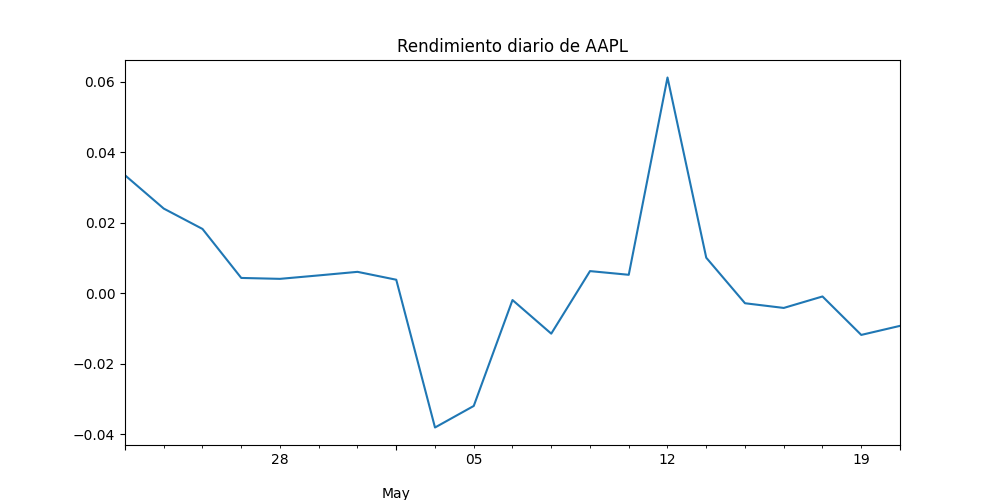
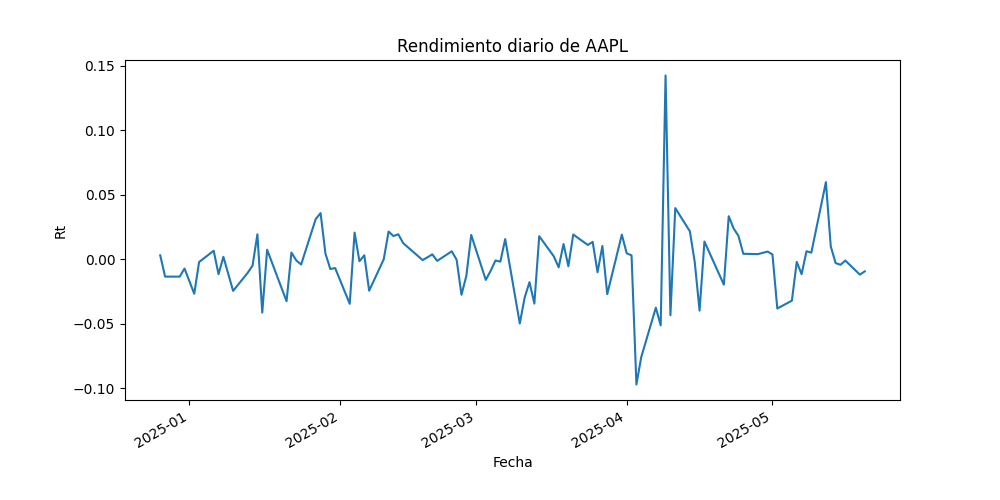
Cambie API de FinnHub a AlphaVantage, probando limites gratuitos

diff --git a/templates/consulta.html b/templates/consulta.html
@@ -1,20 +1,30 @@
+<!-- templates/consulta.html -->
+
 <!DOCTYPE html>
 <html>
 <head>
-    <title>Consulta de Stock</title>
-    <link rel="stylesheet" href="{{ url_for('static', filename='estilos.css') }}">
+  <meta charset="utf-8">
+  <title>Consulta de Stock</title>
+  <link rel="stylesheet" href="{{ url_for('static', filename='estilos.css') }}">
 </head>
 <body>
-    <h2>Consulta Rendimiento de Stocks</h2>
-    <form method="POST">
-        Código de Acción (Ticker):<br>
-        <input type="text" name="ticker" required><br><br>
-        <button type="submit">Consultar</button>
-    </form>
+  <h2>Consulta Rendimiento de Stocks</h2>
 
-    {% if resultado %}
-        <h3>Gráfica de Rendimiento:</h3>
-        <img src="{{ url_for('static', filename=resultado.split('/')[-1]) }}" width="700">
-    {% endif %}
+  <form method="POST">
+    Código de Acción (Ticker):<br>
+    <input type="text" name="ticker" required autofocus><br><br>
+    <button type="submit">Consultar</button>
+  </form>
+
+  {% if error %}
+    <!-- Aquí ves el JSON completo de error -->
+    <pre style="color:red; white-space: pre-wrap;">{{ error }}</pre>
+  {% endif %}
+
+  {% if resultado %}
+    <h3>Gráfica de Rendimiento:</h3>
+    <img src="{{ url_for('static', filename=resultado) }}" width="700"
+         alt="Rendimiento de {{ resultado.split('_')[0] }}">
+  {% endif %}
 </body>
 </html>

diff --git a/app.py b/app.py
@@ -1,25 +1,23 @@
-from flask import Flask, render_template, request, redirect, session
-import requests, time
-import numpy as np
-import pandas as pd
-import matplotlib.pyplot as plt
-import os
+# app.py
 
-# SQLAlchemy ORM (igual que antes)
+from flask import Flask, render_template, request, redirect, session
+import requests, os, numpy as np, pandas as pd, matplotlib.pyplot as plt
 from sqlalchemy import create_engine, Column, Integer, String
 from sqlalchemy.ext.declarative import declarative_base
 from sqlalchemy.orm import sessionmaker
 
+# ——— Configuración básica ———
 app = Flask(__name__)
 app.secret_key = 'tu_clave_secreta'
 
-# ------ Configuración Finnhub ------
-FINNHUB_API_KEY = 'd0mg4epr01qqqs599dc0d0mg4epr01qqqs599dcg'
-CANDLE_URL = 'https://finnhub.io/api/v1/stock/candle'
+# ——— Alpha Vantage ———
+ALPHA_API_KEY = 'TU_API_KEY'   # <<— reemplaza con tu key de Alpha Vantage
+AV_URL        = 'https://www.alphavantage.co/query'
+# Rate limit free: 5 llamadas/minuto, 500 llamadas/día
 
-# ------ ORM & BD ------
-engine = create_engine('sqlite:///database.db', echo=False)
-Base = declarative_base()
+# ——— ORM y Base de datos ———
+engine       = create_engine('sqlite:///database.db', echo=False)
+Base         = declarative_base()
 SessionLocal = sessionmaker(bind=engine)
 
 class User(Base):
@@ -29,16 +27,57 @@ class User(Base):
     password = Column(String, nullable=False)
 
 Base.metadata.create_all(engine)
-
 with SessionLocal() as db:
     if db.query(User).count() == 0:
         db.add(User(email='user@test.com', password='password123'))
         db.commit()
-        print("Usuario de prueba creado")
+        print("Usuario de prueba creado: user@test.com / password123")
 
-# ------ Rutas ------
+# ——— Función para descargar y graficar ———
+def fetch_and_plot_av(ticker):
+    # Usa el endpoint diario gratuito
+    params = {
+        'function':   'TIME_SERIES_DAILY',    # o 'TIME_SERIES_DAILY_ADJUSTED'
+        'symbol':     ticker,
+        'outputsize': 'compact',              # últimos ~100 días
+        'apikey':     ALPHA_API_KEY
+    }
+    resp = requests.get(AV_URL, params=params)
+    data = resp.json()
+
+    # Manejo de error
+    if 'Time Series (Daily)' not in data:
+        error_msg = data.get('Note') or data.get('Error Message') or data
+        raise ValueError(f"AlphaVantage error: {error_msg}")
+
+    # Construye DataFrame
+    ts = data['Time Series (Daily)']
+    df = pd.DataFrame.from_dict(ts, orient='index', dtype=float)
+    df.index = pd.to_datetime(df.index)
+    df.sort_index(inplace=True)
+
+    # Rendimiento diario: ln(Close_t / Close_{t-1})
+    # Si usas DAILY_ADJUSTED, reemplaza '4. close' por '5. adjusted close'
+    df['Rendimiento'] = np.log(df['4. close'] / df['4. close'].shift(1))
+    df.dropna(inplace=True)
+
+    # Gráfica
+    plt.figure(figsize=(10,5))
+    df['Rendimiento'].plot(title=f'Rendimiento diario de {ticker}')
+    plt.xlabel('Fecha')
+    plt.ylabel('Rt')
+
+    os.makedirs('static', exist_ok=True)
+    img_name = f'{ticker}_rend.png'
+    plt.savefig(os.path.join('static', img_name))
+    plt.close()
+
+    return img_name
+
+# ——— Rutas Flask ———
 @app.route('/', methods=['GET','POST'])
 def login():
+    error = None
     if request.method == 'POST':
         email = request.form['email']
         pwd   = request.form['password']
@@ -48,8 +87,8 @@ def login():
             session['user'] = email
             return redirect('/consulta')
         else:
-            return render_template('login.html', error='Credenciales inválidas')
-    return render_template('login.html')
+            error = 'Credenciales inválidas'
+    return render_template('login.html', error=error)
 
 @app.route('/consulta', methods=['GET','POST'])
 def consulta():
@@ -59,50 +98,11 @@ def consulta():
     resultado = None
 
     if request.method == 'POST':
-        ticker = request.form['ticker'].upper()
-
-        # 1. Calcula UNIX time range para ~último mes
-        end_ts   = int(time.time())
-        start_ts = end_ts - 30*24*60*60
-
-        # 2. Llama a Finnhub
-        params = {
-            'symbol':     ticker,
-            'resolution': 'D',
-            'from':       start_ts,
-            'to':         end_ts,
-            'token':      FINNHUB_API_KEY
-        }
-        resp = requests.get(CANDLE_URL, params=params)
-        data = resp.json()
-
-        if data.get('s') != 'ok':
-            error = 'No se encontró data para ese ticker'
-            return render_template('consulta.html', error=error)
-
-        # 3. Crea DataFrame con precios de cierre
-        df = pd.DataFrame({
-            'Close':     data['c'],
-            'timestamp': data['t']
-        })
-        df['Date'] = pd.to_datetime(df['timestamp'], unit='s')
-        df.set_index('Date', inplace=True)
-
-        # 4. Rendimiento diario: Rt = ln(Pt / Pt-1)
-        df['Rendimiento'] = np.log(df['Close'] / df['Close'].shift(1))
-        df.dropna(inplace=True)
-
-        # 5. Genera y guarda gráfica
-        plt.figure(figsize=(10,5))
-        df['Rendimiento'].plot(title=f'Rendimiento diario de {ticker}')
-        plt.xlabel('Fecha')
-        plt.ylabel('Rt')
-        img_name = f'{ticker}_rend.png'
-        img_path = os.path.join('static', img_name)
-        plt.savefig(img_path)
-        plt.close()
-
-        resultado = img_name
+        ticker = request.form['ticker'].strip().upper()
+        try:
+            resultado = fetch_and_plot_av(ticker)
+        except Exception as e:
+            error = str(e)
 
     return render_template('consulta.html', resultado=resultado, error=error)
 
